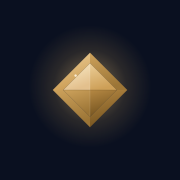
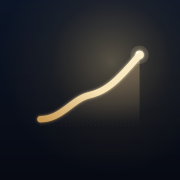
Icono: cambia el diamante por una curva de crecimiento dorada
El icono de inicio, el favicon y el logo de la cabecera ya no son un diamante,
sino una curva de patrimonio ascendente con el "punto en vivo" del propio
gráfico de la app, en el mismo dorado premium. Todo coherente entre la pantalla
de inicio y la app. PNGs 180/192/512 regenerados desde icon.svg con sharp.

Changed region(s): [[0.1944, 0.0278, 0.9167, 0.7222]]

diff --git a/index.html b/index.html
@@ -356,7 +356,7 @@
 <body>
 <!-- Sprite de iconos (line icons, estilo Lucide) -->
 <svg width="0" height="0" style="position:absolute" aria-hidden="true" focusable="false"><defs>
-  <symbol id="i-gem" viewBox="0 0 24 24"><path d="M6 3h12l4 6-10 12L2 9Z"/><path d="M11 3 8 9l4 12 4-12-3-6"/><path d="M2 9h20"/></symbol>
+  <symbol id="i-mark" viewBox="0 0 24 24"><polyline points="3 17 9.5 10.5 13.5 14.5 21 6"/><polyline points="15 6 21 6 21 12"/></symbol>
   <symbol id="i-refresh" viewBox="0 0 24 24"><path d="M3 12a9 9 0 0 1 15-6.7L21 8"/><path d="M21 3v5h-5"/><path d="M21 12a9 9 0 0 1-15 6.7L3 16"/><path d="M3 21v-5h5"/></symbol>
   <symbol id="i-edit" viewBox="0 0 24 24"><path d="M12 20h9"/><path d="M16.5 3.5a2.12 2.12 0 0 1 3 3L7 19l-4 1 1-4Z"/></symbol>
   <symbol id="i-mail" viewBox="0 0 24 24"><rect x="3" y="5" width="18" height="14" rx="2"/><path d="m3 7 9 6 9-6"/></symbol>
@@ -383,7 +383,7 @@
   <!-- Top bar -->
   <header class="topbar">
     <div class="brand">
-      <div class="mark"><svg class="ic"><use href="#i-gem"/></svg></div>
+      <div class="mark"><svg class="ic"><use href="#i-mark"/></svg></div>
       <div>
         <div class="brand-name">Patrimonio Unificado</div>
         <div class="brand-sub">Broker · Fondos · Cripto — una sola vista, precios en vivo</div>
